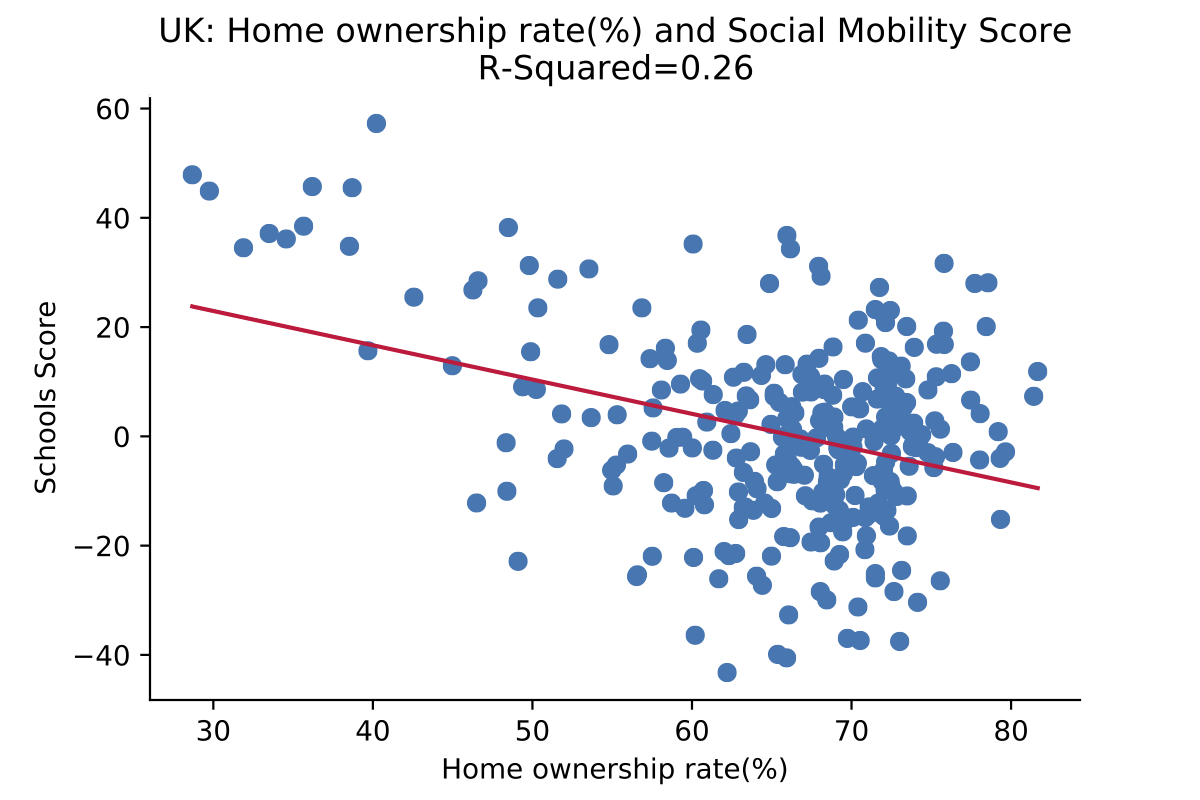
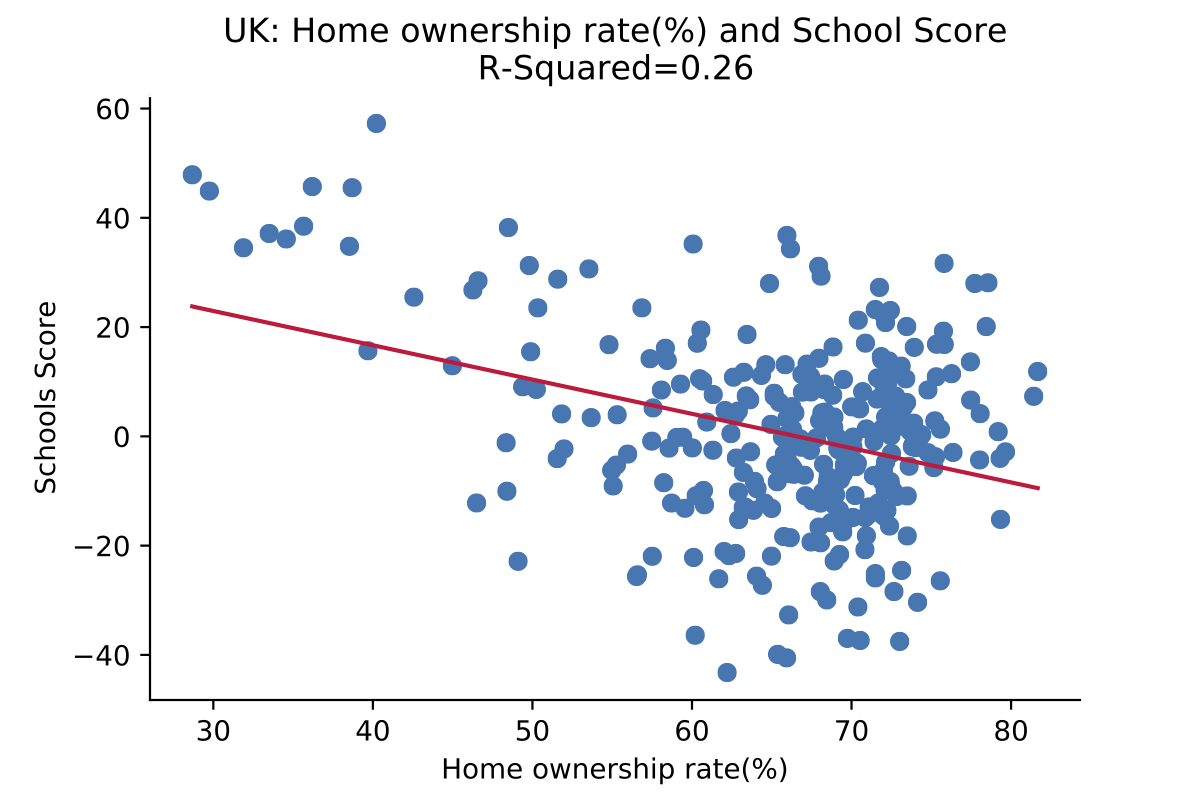
push

Changed region(s): [[0.1233, 0.0, 0.8942, 0.0625]]

diff --git a/project.html b/project.html
@@ -184,9 +184,8 @@ However, several factors affect social mobility and therefore the project aims t
 
 <p class="bodyText" style="font-size: 30px;"><span style="color: 53d9d1; font-weight: 700;">Section 5: England</span></p><br>
 <p class="projecttext">
-  Ideas: Map showing ownership rates in England,  one of social mobility index by  WPCs- this probably.
-  Intersting that social moblity score lower in genreal in areas strong price growth.
-  Blah Blahs
+  The charts below show that there may be a a very weak link between Social Moblity and School Scores within English administartive regions.
+  
 </p>
 
 <container class="bcontainer">
@@ -208,27 +207,14 @@ However, several factors affect social mobility and therefore the project aims t
 
 <p class="bodyText" style="font-size: 30px;"><span style="color: 53d9d1; font-weight: 700;">Conclusion</span></p><br>
 <p class="projecttext">
-  This is bad a labour cannot relocate casuing ineffeicient labour markets research more into this.
-  Althouhg no automatic fetches due to data being obtained from published reports the 
-  frequency of report means this is not a problem.
-  However, for replicability the codes I have programmed can be run with raw data which is then cleaned by the code.
-  More recenlty governent supporting housing market shown to ahve
-  Promoting homeownership has long been a policy objective. 
-  This has often been justified on grounds that homeownership can help households accumulate wealth and save for retirement, as well as contribute to well-being and social cohesion.
-  However, governemnt policies tend to have unwanted effects. One such factor includes social mobility.
-  Social mobility refers to the movement of individuals either up or down the socioeconomic ladder relative to their current standing, 
-  such as a low-income family moving up to become a part of the middle class.
-  Countries with high levels of social mobility exhibit lower levels of income inequality 
-  and provide more equally shared opportunities for its citizens.
-  It can be argued that a high ownership environment in the UK has priced out many others who seek to move into 
-  areas of high economic opportunities such as London and other cities. this phenomenon 
-  is also know was geographical immoblity.
-  Notes: people born into low-income families, regardless of their talent, or their hard work, do not have the same access to 
-  opportunities as those born into more privileged circumstances. As poorer people priced out of capital 
-  move into country with lower quality away.
-
-  UK chart looks at local adminstartive regions, we could have fixed on if locations were in city or not as there could be 
-  city effects mainly due to price of perporty 
+  To conclude home ownership and Social Mobility are weakly negatively correlated. 
+  Even if wealth inequality is lower where homeownership is more widespread, 
+  encouraging homeownership is not the appropriate policy response to help low and middle-income families accumulate wealth.
+  Promoting residential mobility is an important policy challenge, especially in England where there is a large price gap between regions. 
+  This means that there could be labour market–skills mismatches where people from lower house price regions cannot move to a higher one. 
+  Mobility can cushion labour-market shocks and reduce regional inequalities – for instance by alleviating local imbalances between labour demand and supply and by promoting the optimal match between workers and jobs. 
+  This project stimulates further in the fact the School score aspect of the overall score showed a higher albeit still weaker link. 
+  This relationship should be explored further.
 </p>
 
 
